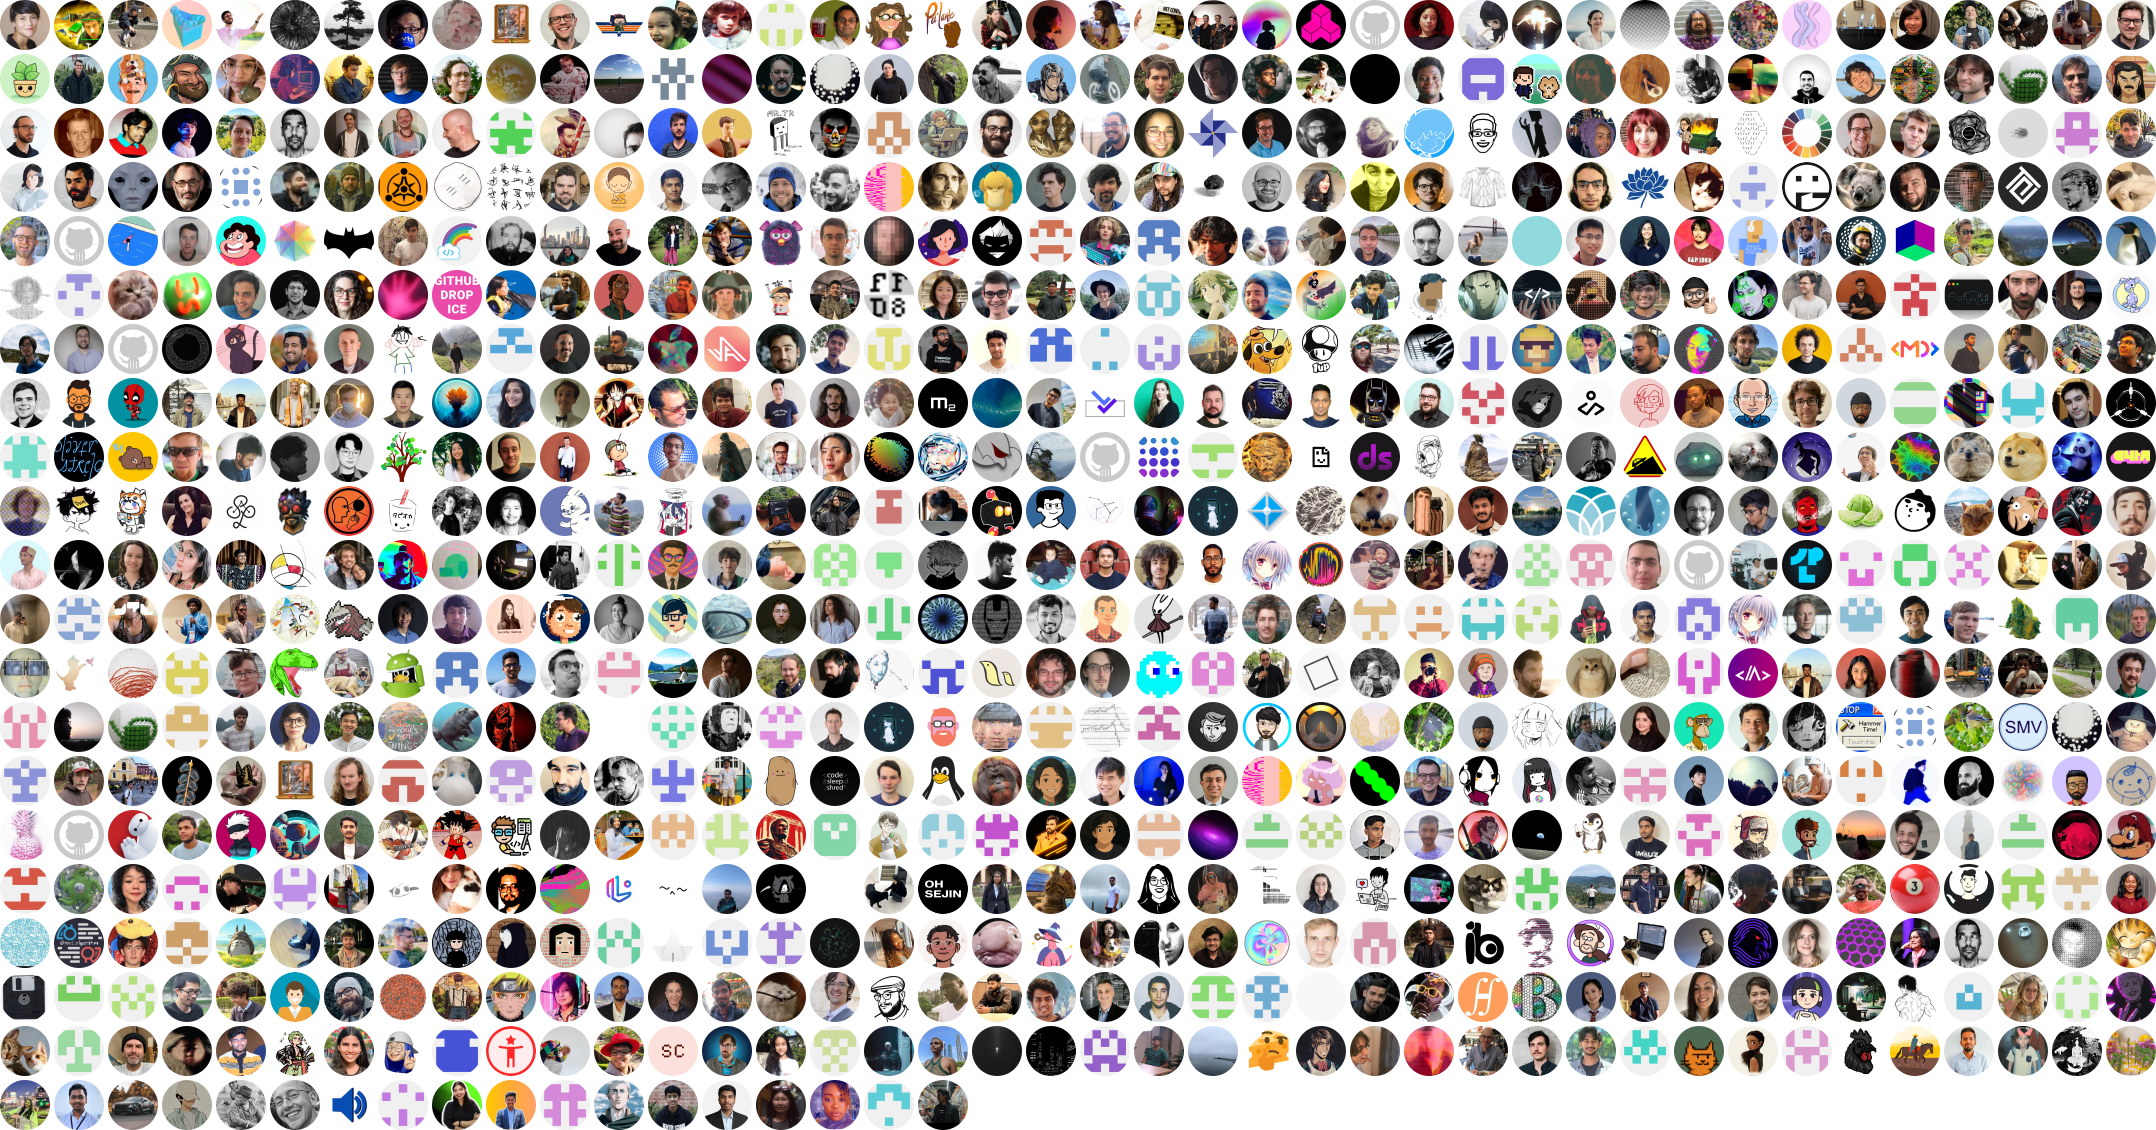
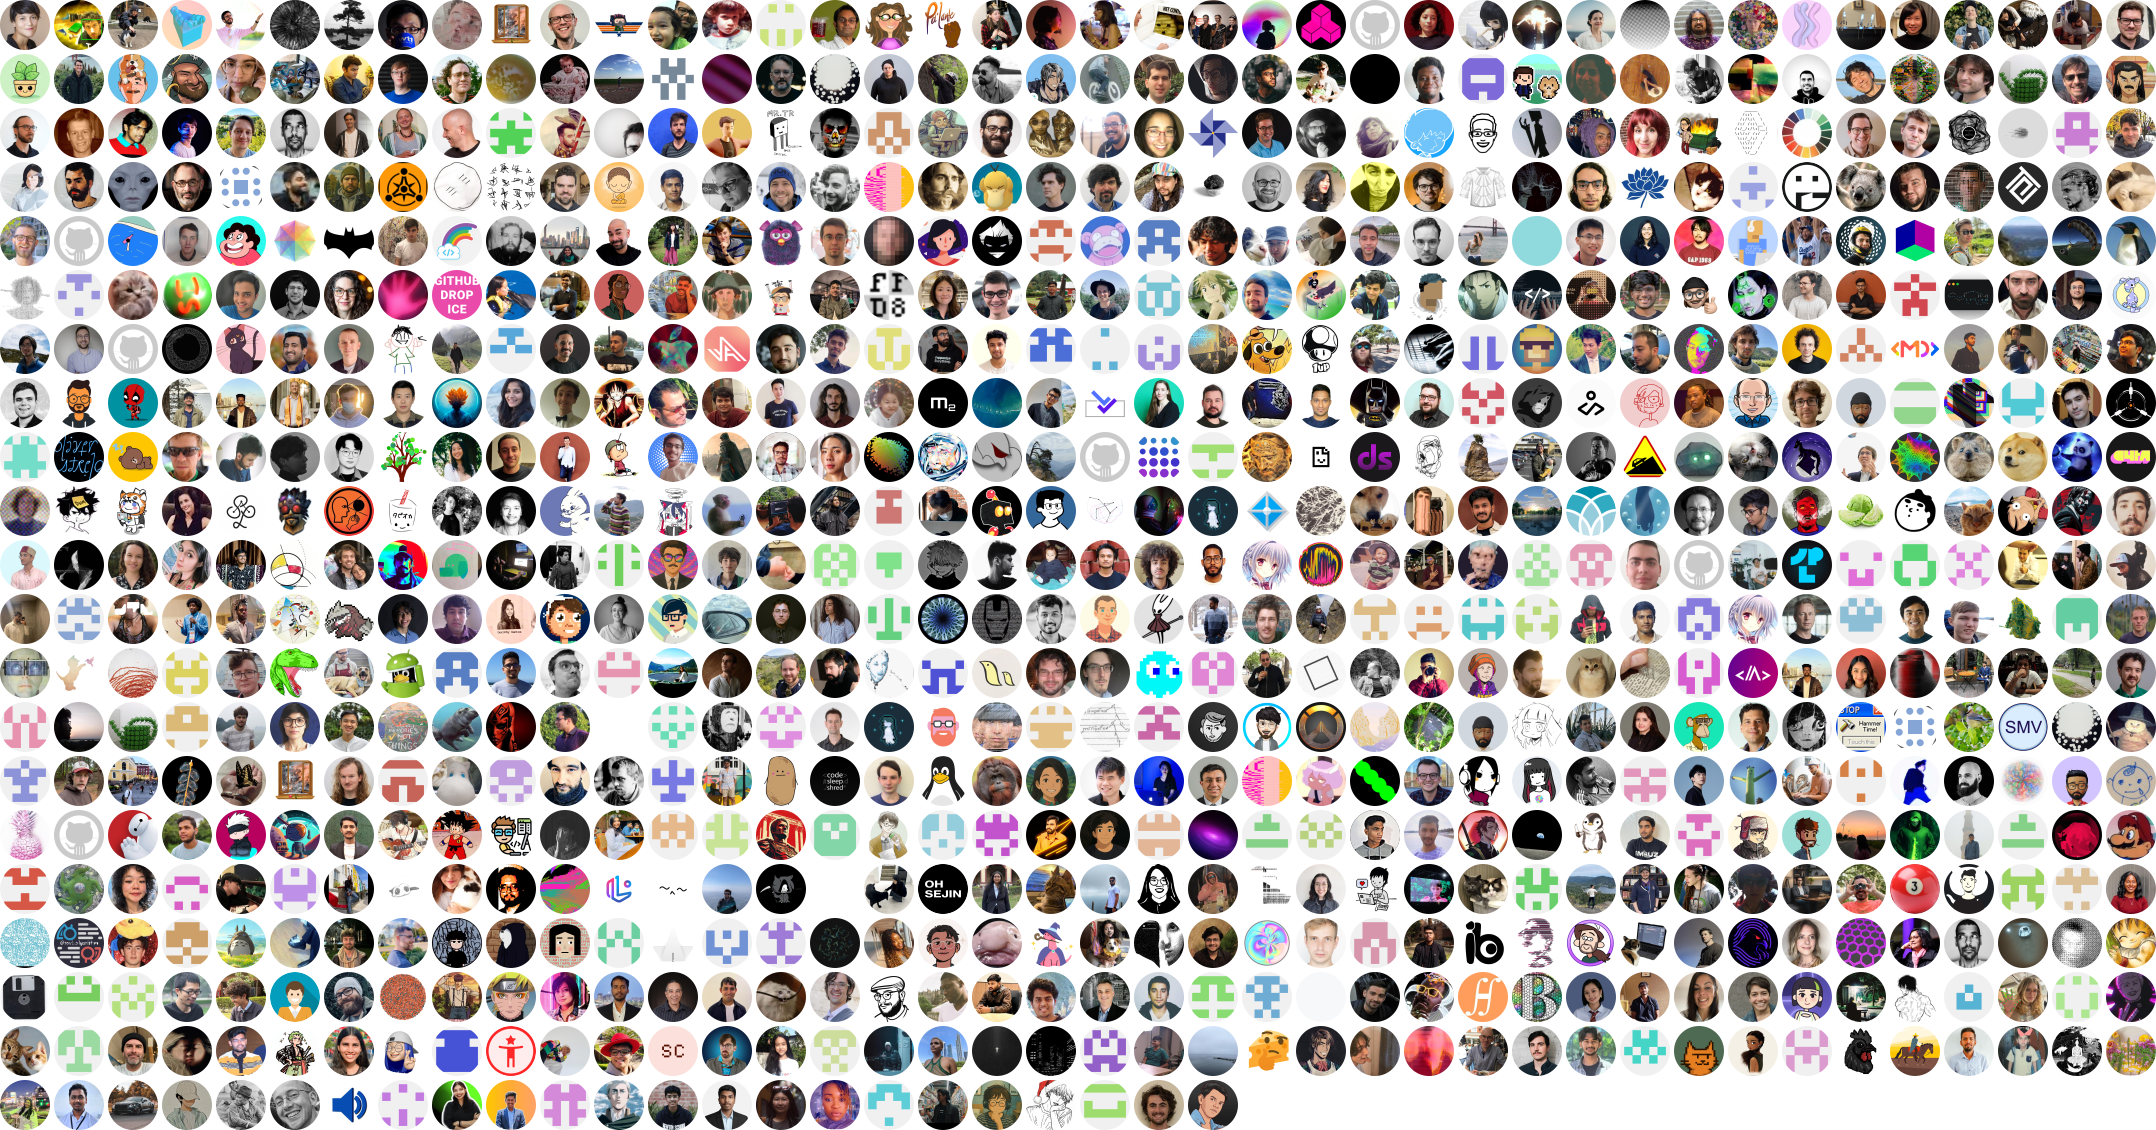
Updated readme and contributors for 2.0 branch

diff --git a/CONTRIBUTORS.md b/CONTRIBUTORS.md
@@ -1067,7 +1067,7 @@
       <td align="center" valign="top" width="16.66%"><a href="https://kangjung.github.io/game/index.html"><img src="https://avatars.githubusercontent.com/u/28768760?v=4?s=64" width="64px;" alt="JUNGMIN KANG"/><br /><sub><b>JUNGMIN KANG</b></sub></a><br /><a href="#translation-kangjung" title="Translation">🌍</a></td>
       <td align="center" valign="top" width="16.66%"><a href="https://github.com/AlzaAlzaki76"><img src="https://avatars.githubusercontent.com/u/202525131?v=4?s=64" width="64px;" alt="Alza Alzaki"/><br /><sub><b>Alza Alzaki</b></sub></a><br /><a href="https://github.com/processing/p5.js/commits?author=AlzaAlzaki76" title="Documentation">📖</a></td>
       <td align="center" valign="top" width="16.66%"><a href="https://github.com/Abhayaj247"><img src="https://avatars.githubusercontent.com/u/139991819?v=4?s=64" width="64px;" alt="Abhay M Joshi"/><br /><sub><b>Abhay M Joshi</b></sub></a><br /><a href="https://github.com/processing/p5.js/commits?author=Abhayaj247" title="Documentation">📖</a></td>
-      <td align="center" valign="top" width="16.66%"><a href="https://github.com/Homaid"><img src="https://avatars.githubusercontent.com/u/69979731?v=4?s=64" width="64px;" alt="Homaid"/><br /><sub><b>Homaid</b></sub></a><br /><a href="#a11y-Homaid" title="Accessibility">♿</a> <a href="https://github.com/processing/p5.js/commits?author=Homaid" title="Code">💻</a></td>
+      <td align="center" valign="top" width="16.66%"><a href="https://github.com/Homaid"><img src="https://avatars.githubusercontent.com/u/69979731?v=4?s=64" width="64px;" alt="Homaid"/><br /><sub><b>Homaid</b></sub></a><br /><a href="#a11y-Homaid" title="Accessibility">♿</a> <a href="https://github.com/processing/p5.js/commits?author=Homaid" title="Code">💻</a> <a href="https://github.com/processing/p5.js/commits?author=Homaid" title="Documentation">📖</a></td>
     </tr>
     <tr>
       <td align="center" valign="top" width="16.66%"><a href="https://github.com/junseok44"><img src="https://avatars.githubusercontent.com/u/81099627?v=4?s=64" width="64px;" alt="JangJunseok"/><br /><sub><b>JangJunseok</b></sub></a><br /><a href="https://github.com/processing/p5.js/commits?author=junseok44" title="Code">💻</a></td>
@@ -1081,6 +1081,28 @@
       <td align="center" valign="top" width="16.66%"><a href="https://github.com/nivanovvv"><img src="https://avatars.githubusercontent.com/u/232286320?v=4?s=64" width="64px;" alt="Nikolai Ivanov"/><br /><sub><b>Nikolai Ivanov</b></sub></a><br /><a href="https://github.com/processing/p5.js/commits?author=nivanovvv" title="Documentation">📖</a></td>
       <td align="center" valign="top" width="16.66%"><a href="https://github.com/nbogie"><img src="https://avatars.githubusercontent.com/u/69844?v=4?s=64" width="64px;" alt="nbogie"/><br /><sub><b>nbogie</b></sub></a><br /><a href="https://github.com/processing/p5.js/issues?q=author%3Anbogie" title="Bug reports">🐛</a> <a href="https://github.com/processing/p5.js/commits?author=nbogie" title="Code">💻</a></td>
       <td align="center" valign="top" width="16.66%"><a href="https://github.com/SoundOfScooting"><img src="https://avatars.githubusercontent.com/u/53986193?v=4?s=64" width="64px;" alt="SoundOfScooting"/><br /><sub><b>SoundOfScooting</b></sub></a><br /><a href="https://github.com/processing/p5.js/commits?author=SoundOfScooting" title="Code">💻</a> <a href="https://github.com/processing/p5.js/commits?author=SoundOfScooting" title="Documentation">📖</a></td>
+      <td align="center" valign="top" width="16.66%"><a href="https://vansh-dev.netlify.app/"><img src="https://avatars.githubusercontent.com/u/134841334?v=4?s=64" width="64px;" alt="vansh kabra"/><br /><sub><b>vansh kabra</b></sub></a><br /><a href="https://github.com/processing/p5.js/commits?author=VANSH3104" title="Code">💻</a></td>
+      <td align="center" valign="top" width="16.66%"><a href="https://github.com/menacingly-coded"><img src="https://avatars.githubusercontent.com/u/121508087?v=4?s=64" width="64px;" alt="Shreya Sharma"/><br /><sub><b>Shreya Sharma</b></sub></a><br /><a href="https://github.com/processing/p5.js/commits?author=menacingly-coded" title="Documentation">📖</a></td>
+      <td align="center" valign="top" width="16.66%"><a href="https://github.com/Itsrajsk"><img src="https://avatars.githubusercontent.com/u/117977675?v=4?s=64" width="64px;" alt="Raj Kashid"/><br /><sub><b>Raj Kashid</b></sub></a><br /><a href="https://github.com/processing/p5.js/commits?author=Itsrajsk" title="Code">💻</a></td>
+    </tr>
+    <tr>
+      <td align="center" valign="top" width="16.66%"><a href="https://github.com/Geethegreat"><img src="https://avatars.githubusercontent.com/u/86944224?v=4?s=64" width="64px;" alt="krishnageeth"/><br /><sub><b>krishnageeth</b></sub></a><br /><a href="https://github.com/processing/p5.js/commits?author=Geethegreat" title="Code">💻</a></td>
+      <td align="center" valign="top" width="16.66%"><a href="http://piyushh.me"><img src="https://avatars.githubusercontent.com/u/163632958?v=4?s=64" width="64px;" alt="PIYUSH RATHORE"/><br /><sub><b>PIYUSH RATHORE</b></sub></a><br /><a href="https://github.com/processing/p5.js/commits?author=Piyushrathoree" title="Code">💻</a></td>
+      <td align="center" valign="top" width="16.66%"><a href="https://github.com/Aayushdev18"><img src="https://avatars.githubusercontent.com/u/148681565?v=4?s=64" width="64px;" alt="Ayush Dev"/><br /><sub><b>Ayush Dev</b></sub></a><br /><a href="https://github.com/processing/p5.js/commits?author=Aayushdev18" title="Code">💻</a></td>
+      <td align="center" valign="top" width="16.66%"><a href="https://github.com/rakesh2OO5"><img src="https://avatars.githubusercontent.com/u/160116250?v=4?s=64" width="64px;" alt="Rakesh D"/><br /><sub><b>Rakesh D</b></sub></a><br /><a href="https://github.com/processing/p5.js/commits?author=rakesh2OO5" title="Code">💻</a></td>
+      <td align="center" valign="top" width="16.66%"><a href="https://doradocodes.com/"><img src="https://avatars.githubusercontent.com/u/140831752?v=4?s=64" width="64px;" alt="Dora Do"/><br /><sub><b>Dora Do</b></sub></a><br /><a href="https://github.com/processing/p5.js/pulls?q=is%3Apr+reviewed-by%3Adoradocodes" title="Reviewed Pull Requests">👀</a></td>
+      <td align="center" valign="top" width="16.66%"><a href="https://github.com/Nwakaego-Ego"><img src="https://avatars.githubusercontent.com/u/81041326?v=4?s=64" width="64px;" alt="Nwakaego Glory Nwaekpe"/><br /><sub><b>Nwakaego Glory Nwaekpe</b></sub></a><br /><a href="https://github.com/processing/p5.js/pulls?q=is%3Apr+reviewed-by%3ANwakaego-Ego" title="Reviewed Pull Requests">👀</a></td>
+    </tr>
+    <tr>
+      <td align="center" valign="top" width="16.66%"><a href="https://github.com/vietnguyen2358"><img src="https://avatars.githubusercontent.com/u/107826279?v=4?s=64" width="64px;" alt="Viet Nguyen"/><br /><sub><b>Viet Nguyen</b></sub></a><br /><a href="https://github.com/processing/p5.js/commits?author=vietnguyen2358" title="Code">💻</a></td>
+      <td align="center" valign="top" width="16.66%"><a href="https://github.com/shuklaaryan367-byte"><img src="https://avatars.githubusercontent.com/u/228463828?v=4?s=64" width="64px;" alt="aryan-shukla"/><br /><sub><b>aryan-shukla</b></sub></a><br /><a href="https://github.com/processing/p5.js/commits?author=shuklaaryan367-byte" title="Code">💻</a></td>
+      <td align="center" valign="top" width="16.66%"><a href="https://github.com/aashu2006"><img src="https://avatars.githubusercontent.com/u/170659176?v=4?s=64" width="64px;" alt="akshat patil"/><br /><sub><b>akshat patil</b></sub></a><br /><a href="https://github.com/processing/p5.js/commits?author=aashu2006" title="Documentation">📖</a></td>
+      <td align="center" valign="top" width="16.66%"><a href="https://github.com/avinxshKD"><img src="https://avatars.githubusercontent.com/u/152387616?v=4?s=64" width="64px;" alt="Avinash Kumar Deepak"/><br /><sub><b>Avinash Kumar Deepak</b></sub></a><br /><a href="https://github.com/processing/p5.js/commits?author=avinxshKD" title="Code">💻</a></td>
+      <td align="center" valign="top" width="16.66%"><a href="https://github.com/Sanchit2662"><img src="https://avatars.githubusercontent.com/u/217499010?v=4?s=64" width="64px;" alt="SANCHIT KUMAR"/><br /><sub><b>SANCHIT KUMAR</b></sub></a><br /><a href="https://github.com/processing/p5.js/commits?author=Sanchit2662" title="Code">💻</a></td>
+      <td align="center" valign="top" width="16.66%"><a href="http://lavalva.dev"><img src="https://avatars.githubusercontent.com/u/26027232?v=4?s=64" width="64px;" alt="Luke LaValva"/><br /><sub><b>Luke LaValva</b></sub></a><br /><a href="https://github.com/processing/p5.js/issues?q=author%3ALuLaValva" title="Bug reports">🐛</a> <a href="https://github.com/processing/p5.js/commits?author=LuLaValva" title="Code">💻</a></td>
+    </tr>
+    <tr>
+      <td align="center" valign="top" width="16.66%"><a href="https://my-portfolio-phi-seven-50.vercel.app/"><img src="https://avatars.githubusercontent.com/u/187937240?v=4?s=64" width="64px;" alt="Saurabh Singh"/><br /><sub><b>Saurabh Singh</b></sub></a><br /><a href="https://github.com/processing/p5.js/commits?author=saurabh24thakur" title="Code">💻</a> <a href="https://github.com/processing/p5.js/commits?author=saurabh24thakur" title="Tests">⚠</a></td>
     </tr>
   </tbody>
 </table>

diff --git a/README.md b/README.md
@@ -111,7 +111,8 @@ Lead/Mentor Alumni
 | i18n (ko) | [@hana-cho](https://github.com/hana-cho) |
 | i18n (zh) | [@limzykenneth](https://github.com/limzykenneth), [@lirenjie95](https://github.com/lirenjie95) |
 | Math | [@GregStanton](https://github.com/GregStanton), [@holomorfo](https://github.com/holomorfo) |
-| p5.js-website | [@clairep94](https://github.com/clairep94), [@ksen0](https://github.com/ksen0) |
+| p5.js-web-editor | [@iron-56](https://github.com/iron-56) |
+| p5.js-website | [@Nwakaego-Ego](https://github.com/Nwakaego-Ego), [@clairep94](https://github.com/clairep94), [@doradocodes](https://github.com/doradocodes), [@ksen0](https://github.com/ksen0) |
 | p5.sound.js | [@ogbabydiesal](https://github.com/ogbabydiesal) |
 | Shapes | [@GregStanton](https://github.com/GregStanton) |
 | Typography | [@dhowe](https://github.com/dhowe) |
